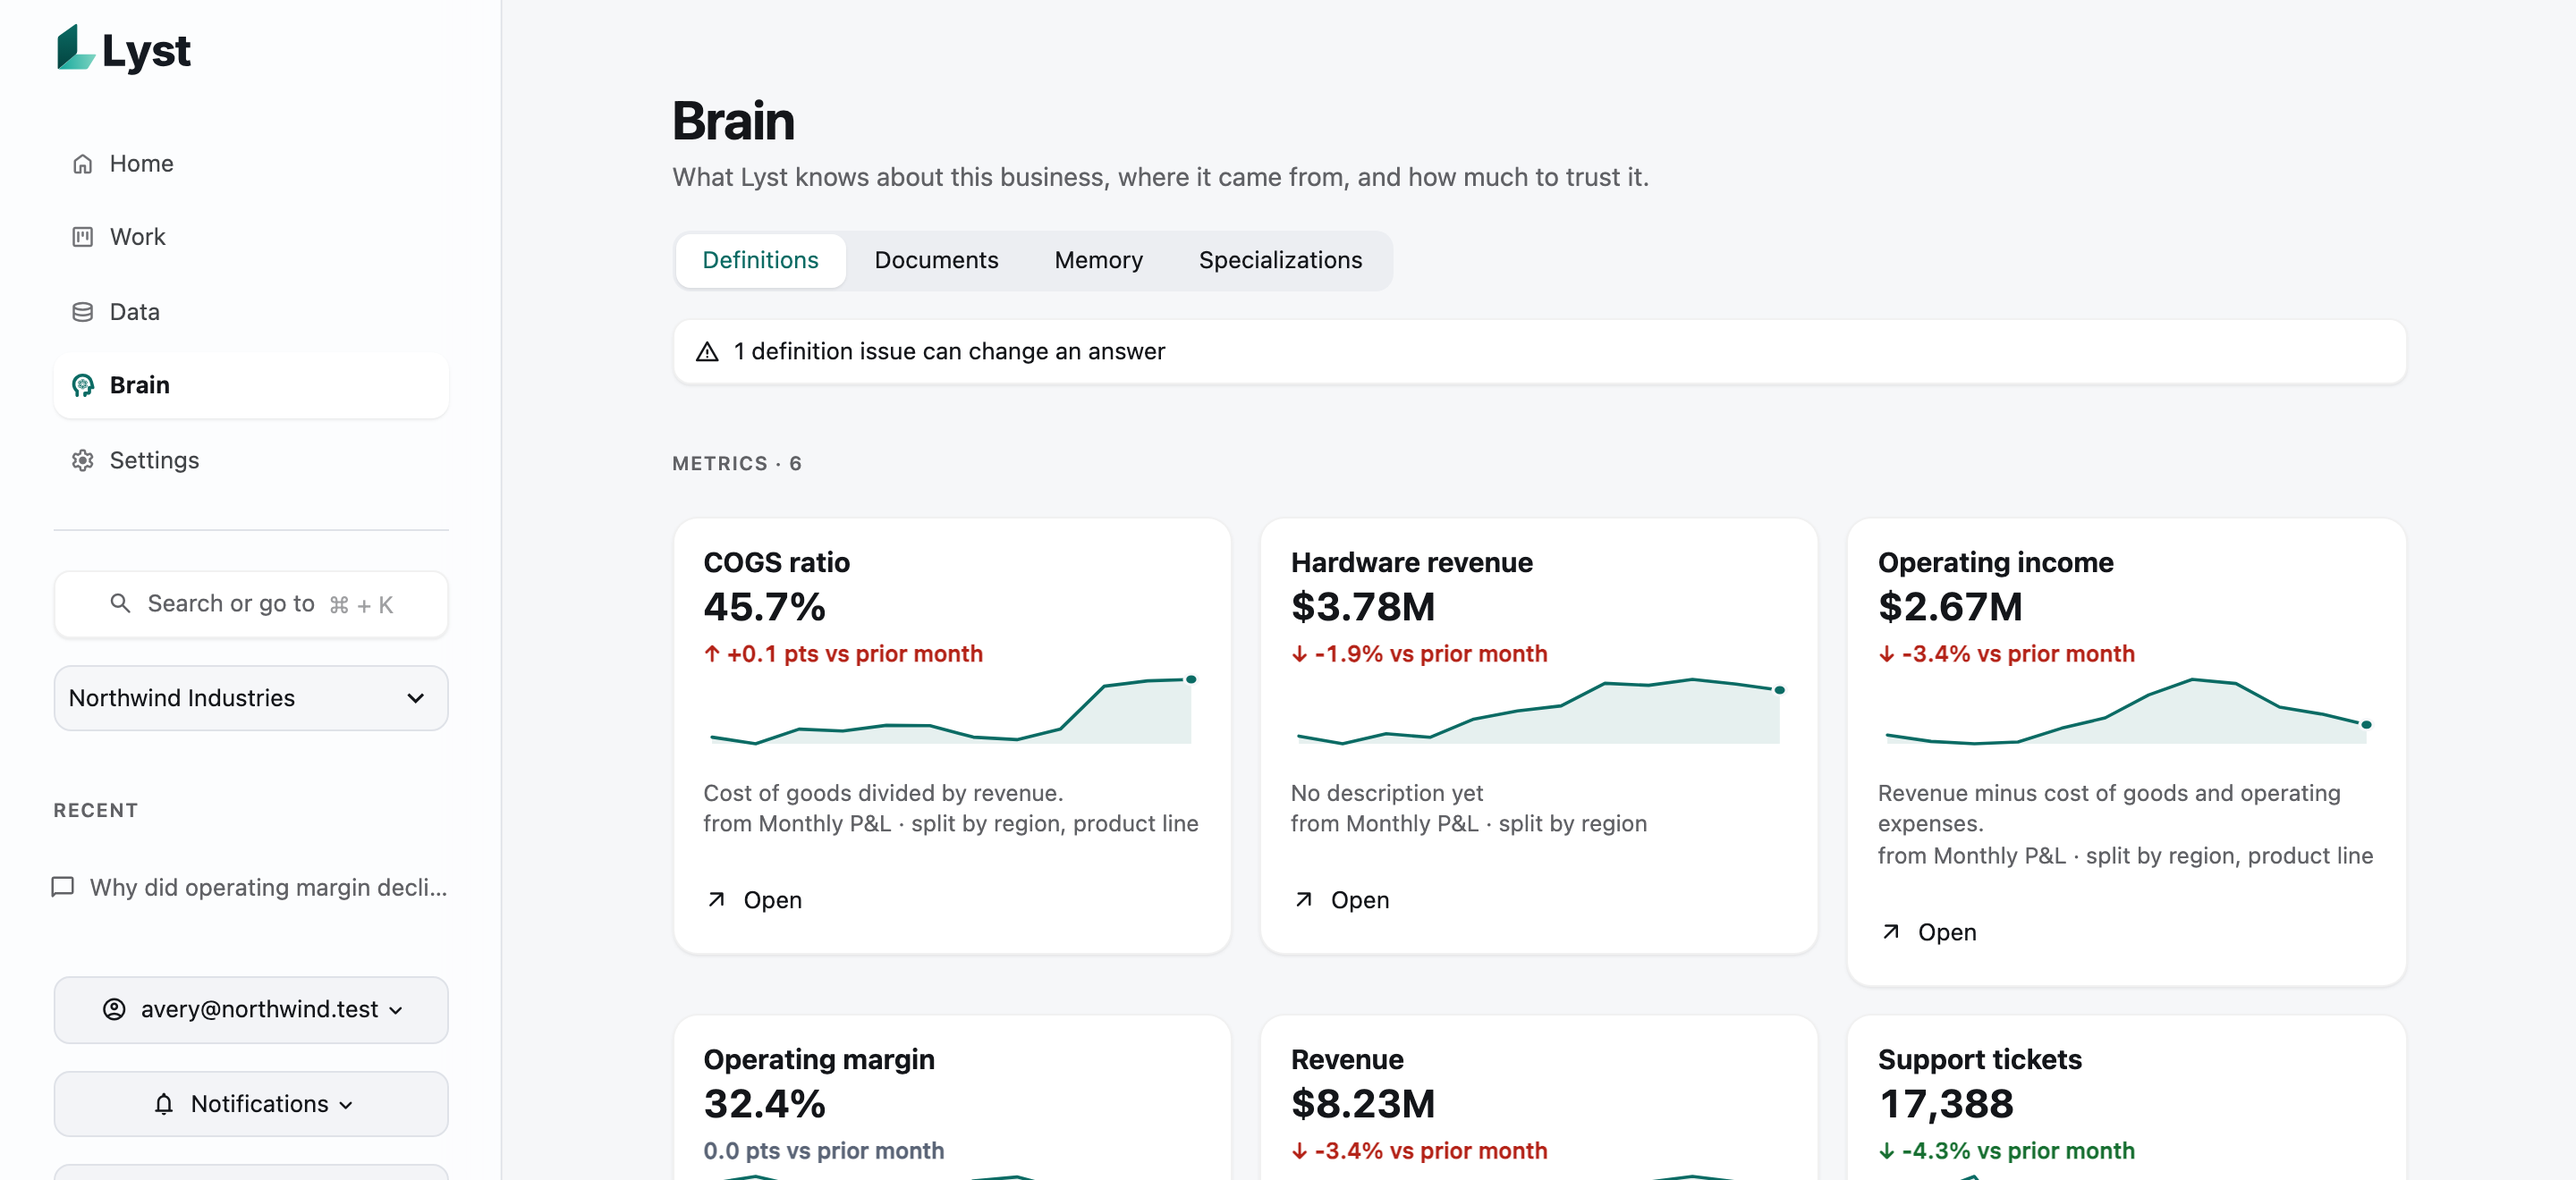
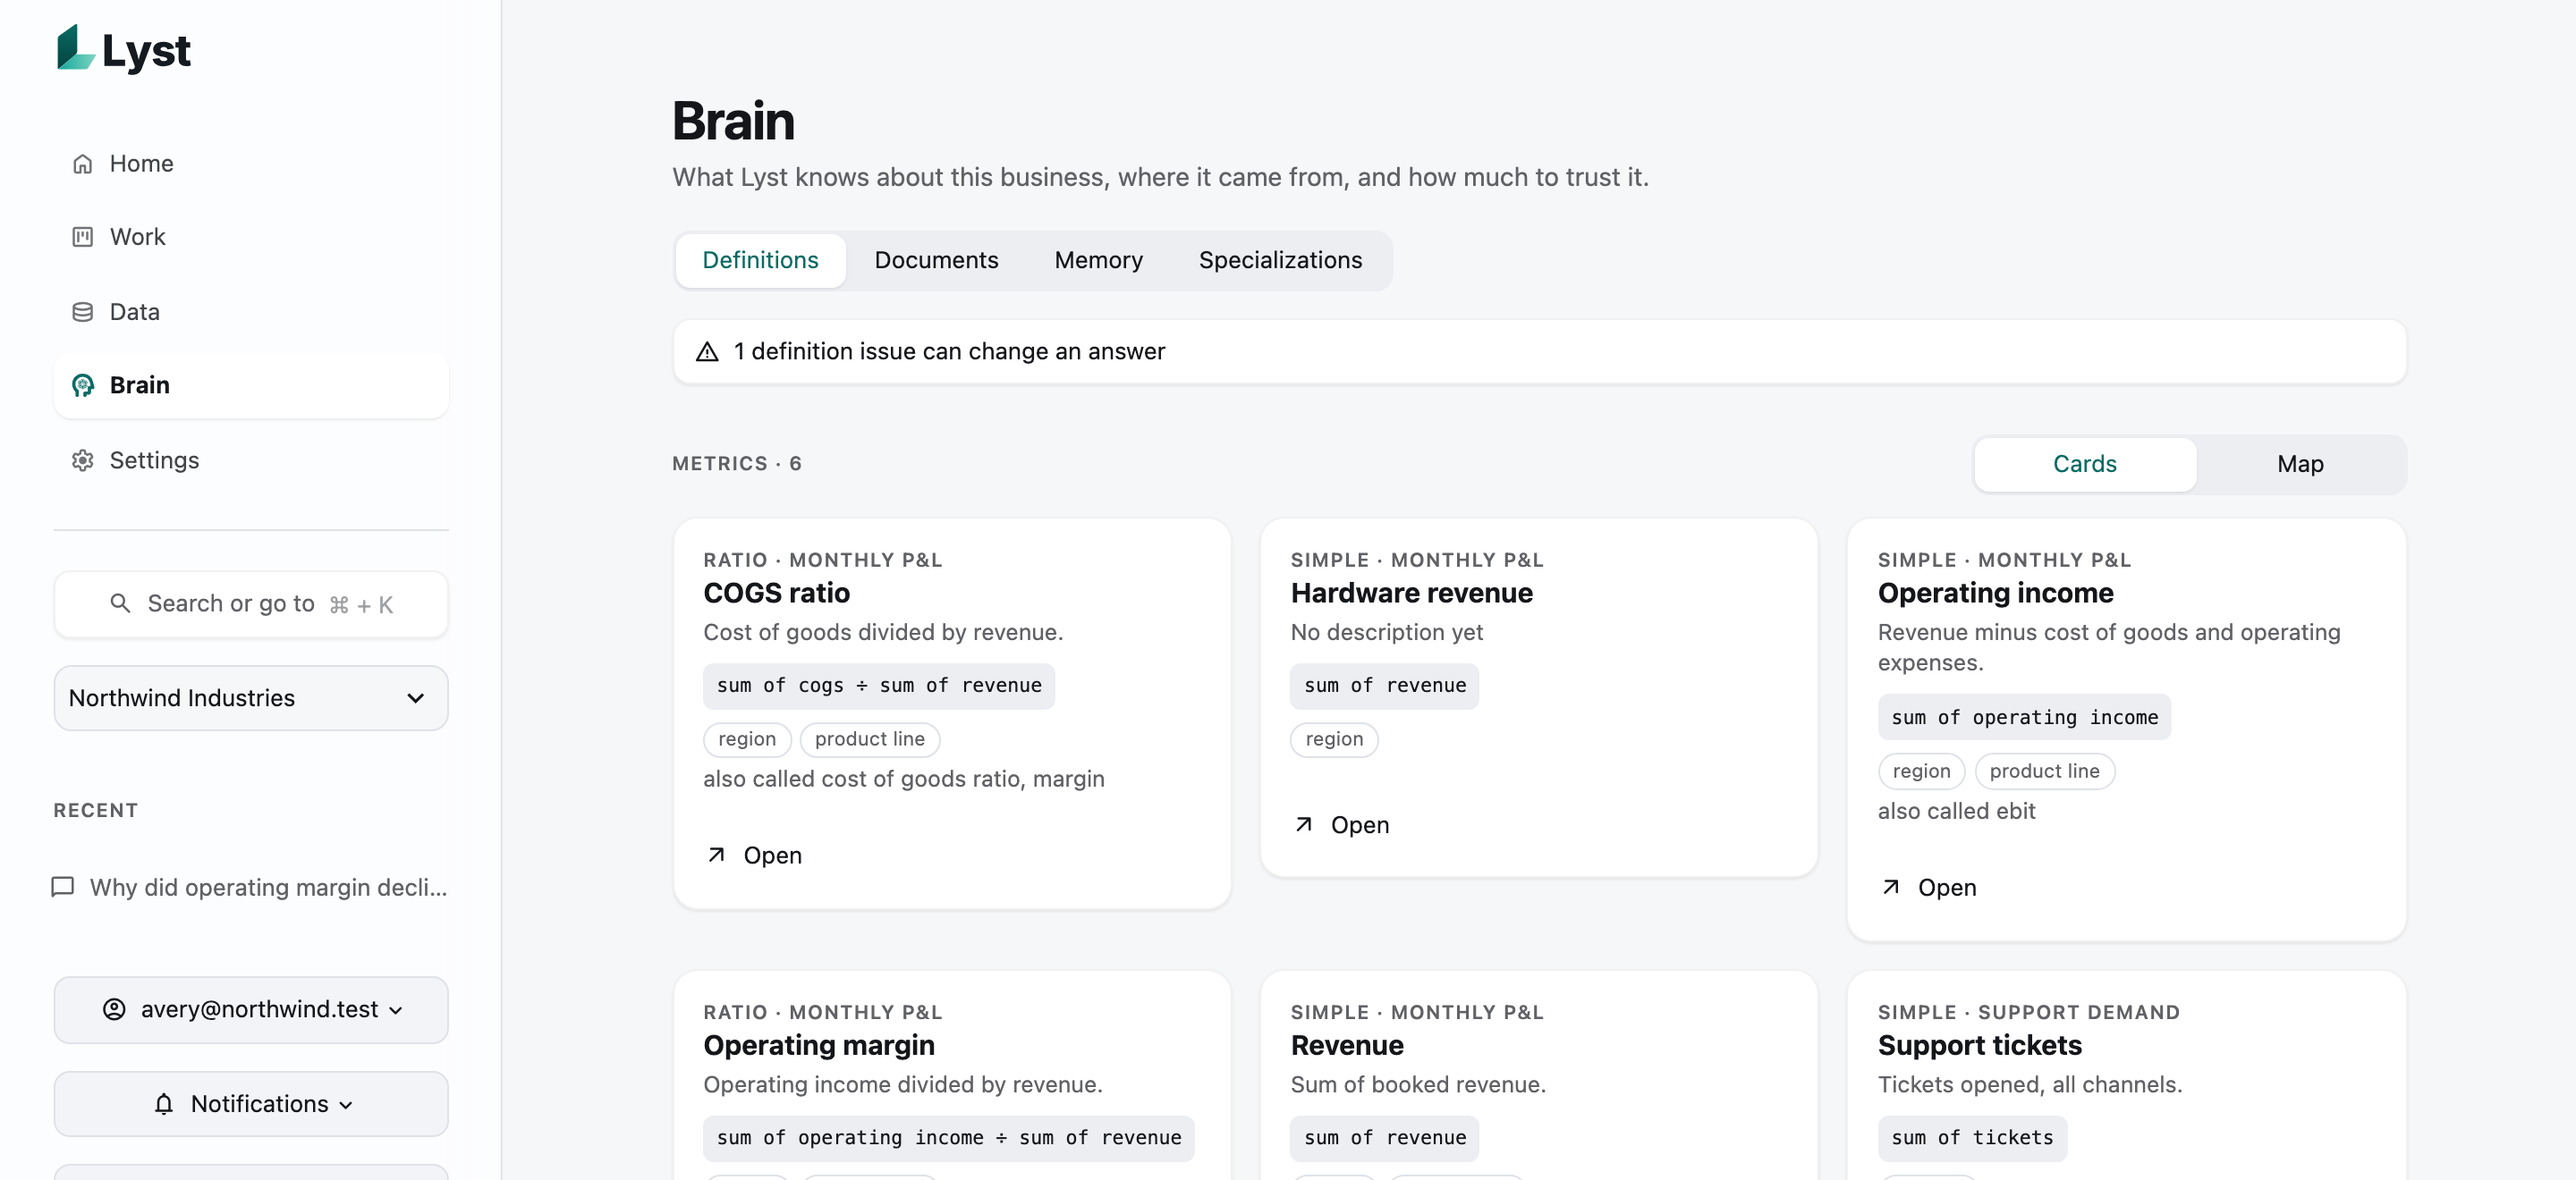
README: quick start built on start, status, stop and --check; artifacts and maps (#106); memory and recovery (#105); maturity evidence (#110)
Shows the real start-up summary and the status/stop/--check commands from #101 as
commands, describes artifacts, the viewer and the Data and Brain maps with new
screenshots, retakes Home and the answer, and adds careful memory and drilled
backups.

diff --git a/README.md b/README.md
@@ -34,15 +34,30 @@ uv sync --all-extras
 uv run lyst start --demo
 ```
 
-One command initialises encryption (the master key goes into the OS credential store), seeds the Northwind
-demo workspace, starts the engine on `http://127.0.0.1:8770` and opens the interface at
-**http://lyst.localhost:8501**. Ctrl-C stops everything.
+One command initialises encryption (the master key goes into the OS credential store), seeds the Northwind demo
+workspace, starts the engine and the interface, and opens **http://lyst.localhost:8501**:
 
-It is safe to run again. If Lyst is already running it opens that one instead of starting a second, if a default port
-is busy it picks the next free one and says so, and if another program has the data open it names that program's PID
-instead of failing with a traceback. From any terminal, `lyst status` says what is running and `lyst stop` stops it
-(only the processes `lyst start` recorded). `lyst start --check` checks Python, the data folder, the encryption key, the
-database and the ports before you start.
+```text
+Lyst is running at http://lyst.localhost:8501
+  Engine     http://127.0.0.1:8770
+  Interface  http://lyst.localhost:8501
+  Data       ./var
+  Demo       the Northwind workspace is ready; try "Why did operating margin decline last quarter?"
+Ctrl-C stops it. From another terminal: `lyst status`, `lyst stop`.
+```
+
+From any terminal in the checkout:
+
+```bash
+uv run lyst status          # is Lyst running here, at which address, under which PIDs (--json for scripts)
+uv run lyst stop            # stop the Lyst that `lyst start` launched; never touches processes it didn't record
+uv run lyst start --check   # preflight: Python, data folder, encryption key, database lock and ports, opening no database
+```
+
+`lyst start` is safe to run again. If Lyst is already running here it opens that one instead of starting a second; if
+a default port is busy it moves to the next free one and says so (an explicit `LYST_PORT` or `LYST_UI_PORT` that is
+busy is a clear error); and if another program holds the data open it names that program's PID instead of failing
+with a traceback. Ctrl-C in the starting terminal stops everything cleanly.
 
 Then ask: **"Why did operating margin decline last quarter?"** Lyst finds that operating margin fell from 36.0%
 in Q2 2026 to 32.5% in Q3 2026, that EMEA's own margin drop (36.8% to 24.0%) explains it, reconciles the
@@ -64,7 +79,7 @@ and a "What these words mean" glossary.
 
 | Area | What you do there |
 |---|---|
-| **Home** | Ask in plain words, follow live progress, and read the answer. A Get started card follows the workspace's real set-up state and shows the top suggestions from your data to accept or dismiss, and "This month at a glance" shows a tile per approved metric with a one-click **Why?** |
+| **Home** | A workspace, not a dashboard: the composer (with **Speak**), a Get started card that follows the workspace's real set-up state, suggested questions, **Your work** (a shelf of what Lyst has made, each with a preview drawn from its own content) and the conversations to pick up |
 | **Work** | A command center: a live status strip, then what needs you (approvals), what Lyst is doing and finished as a day-by-day timeline or a board, and what runs on its own: watched metrics, scheduled questions and what Lyst noticed. Each task's steps show as a timeline from the engine |
 | **Data** | Every dataset is a card with its size, freshness, the shape of its columns and the live trend of the measure it feeds; open one for a profile of every column. Sources, dashboards, saved analyses, and a SQL workspace with the schema beside the editor, results kept while you explore, a first chart drawn for you, and a sandboxed **Python** tab. **Add data** uploads a file, connects a source, or proposes connections from an API description |
 | **Brain** | What Lyst knows about the business: every approved metric with its latest value, whether the change is good or bad, its twelve-month trend, and a lineage view from source file to dataset to definition; business terms, documents it can cite, what it remembers and how far to trust it, and **Specializations**: a searchable catalog of the 136 kinds of analyst work with each one's honest maturity |
@@ -83,6 +98,26 @@ Breakdown answers show their split as a chart.
 <p align="center">
   <img src="docs/images/palette.png" alt="The Ctrl/Cmd+K palette for 'margin': Ask Lyst, matching metrics, a saved analysis and an earlier answer, and three matching specializations with their maturity" width="80%">
 </p>
+
+### What Lyst makes is an artifact
+
+Dashboards, charts, briefings, slides, workbooks and saved analyses appear as previews drawn from their own content,
+and open in an immersive viewer made for each kind: an interactive dashboard with a period range, slides as slides,
+a workbook sheet by sheet, a PDF page by page. Inspect the evidence behind any of them, ask Lyst to refine it in
+words, see its versions, pin it to your sidebar, and return exactly where you were. Every chart in an answer
+appears under **Made in this answer**, Data › Dashboards is the gallery of everything made, and ⌘K finds artifacts
+by title.
+
+Data and Brain are workspaces too. Data › Datasets shows **Cards** or a **Map** of how datasets connect through the
+columns they share; Brain › Definitions shows each definition as what it means and how it is built, or a **Map**
+from data to approved metrics.
+
+<table>
+  <tr>
+    <td width="50%"><img src="docs/images/data-map.png" alt="Data, Map: four datasets on a ring, linked by shared columns such as month, product line and region"><br><b>Data map</b>: datasets linked by the columns they share</td>
+    <td width="50%"><img src="docs/images/brain-map.png" alt="Brain, Map: Support demand and Monthly P&L linked to the six approved metrics and how each is built"><br><b>Brain map</b>: from data to approved metrics</td>
+  </tr>
+</table>
 
 ### Every answer: Summary, Detail, Method, and a Brief
 
@@ -291,8 +326,8 @@ where they point, with Mark all read and "What to tell me about".
   answered with the nearest number. Seven specialist methods run on datasets a request names (customer
   segmentation, outcome prediction with logistic regression, process mining with paths, bottlenecks and rework,
   distances between locations, two-source reconciliation, network and graph structure, and event-log burst
-  detection), all through the same access checks. Brain › **Specializations** lists all 136 with their maturity
-  and what each still lacks, and example questions can be asked in one click
+  detection), all through the same access checks. Brain › **Specializations** lists all 136 with their maturity,
+  what each still lacks and the recorded evidence behind it, and example questions can be asked in one click
   ([docs/SPECIALIZATIONS.md](docs/SPECIALIZATIONS.md)).
 * **A workbench for your own Python and SQL.** Analysts run their own Python on governed data in an
   operating-system sandbox, on data already filtered by their column and row permissions. The code cannot read
@@ -381,6 +416,15 @@ where they point, with Mark all read and "What to tell me about".
   its schedules paused, so a copy never runs the same work twice. In Settings › Workspace › **Move or copy this
   workspace**, you seal the workspace into a passphrase-protected pack and download it; on another installation an
   admin checks the pack and brings it in as a new workspace, with schedules paused unless they choose otherwise.
+* **Remembers carefully.** Each memory records the datasets and metric versions it was learned from, and is
+  flagged as possibly out of date, with the reason, when a source has a newer version or is gone, a definition
+  changed, or it is older than a year. Recall ranks memories that still apply first, an answer that draws on a
+  stale one says it "may no longer apply", and admins get a review list. Retention removes only old agent-observed
+  memory, never approved or person-validated knowledge.
+* **Recovers from the worst day.** Backups are atomic (a full disk partway through leaves no half backup) and can
+  run on a schedule. Every new backup gets a restore drill that checks each checksum, refuses a backup containing
+  key material, and opens every database with the current master key. Lyst reports the measured recovery point and
+  recovery time against your targets ([docs/OPERATIONS.md](docs/OPERATIONS.md)).
 * **Runs work durably.** Leases, checkpoints and resume after a crash; parallel steps; pause, cancel, retry and
   budgets; approval-gated schedules and monitors with an inbox and webhooks.
 * **Prepares recurring work before it runs.** Shortly before a scheduled review, Lyst checks as the schedule's
